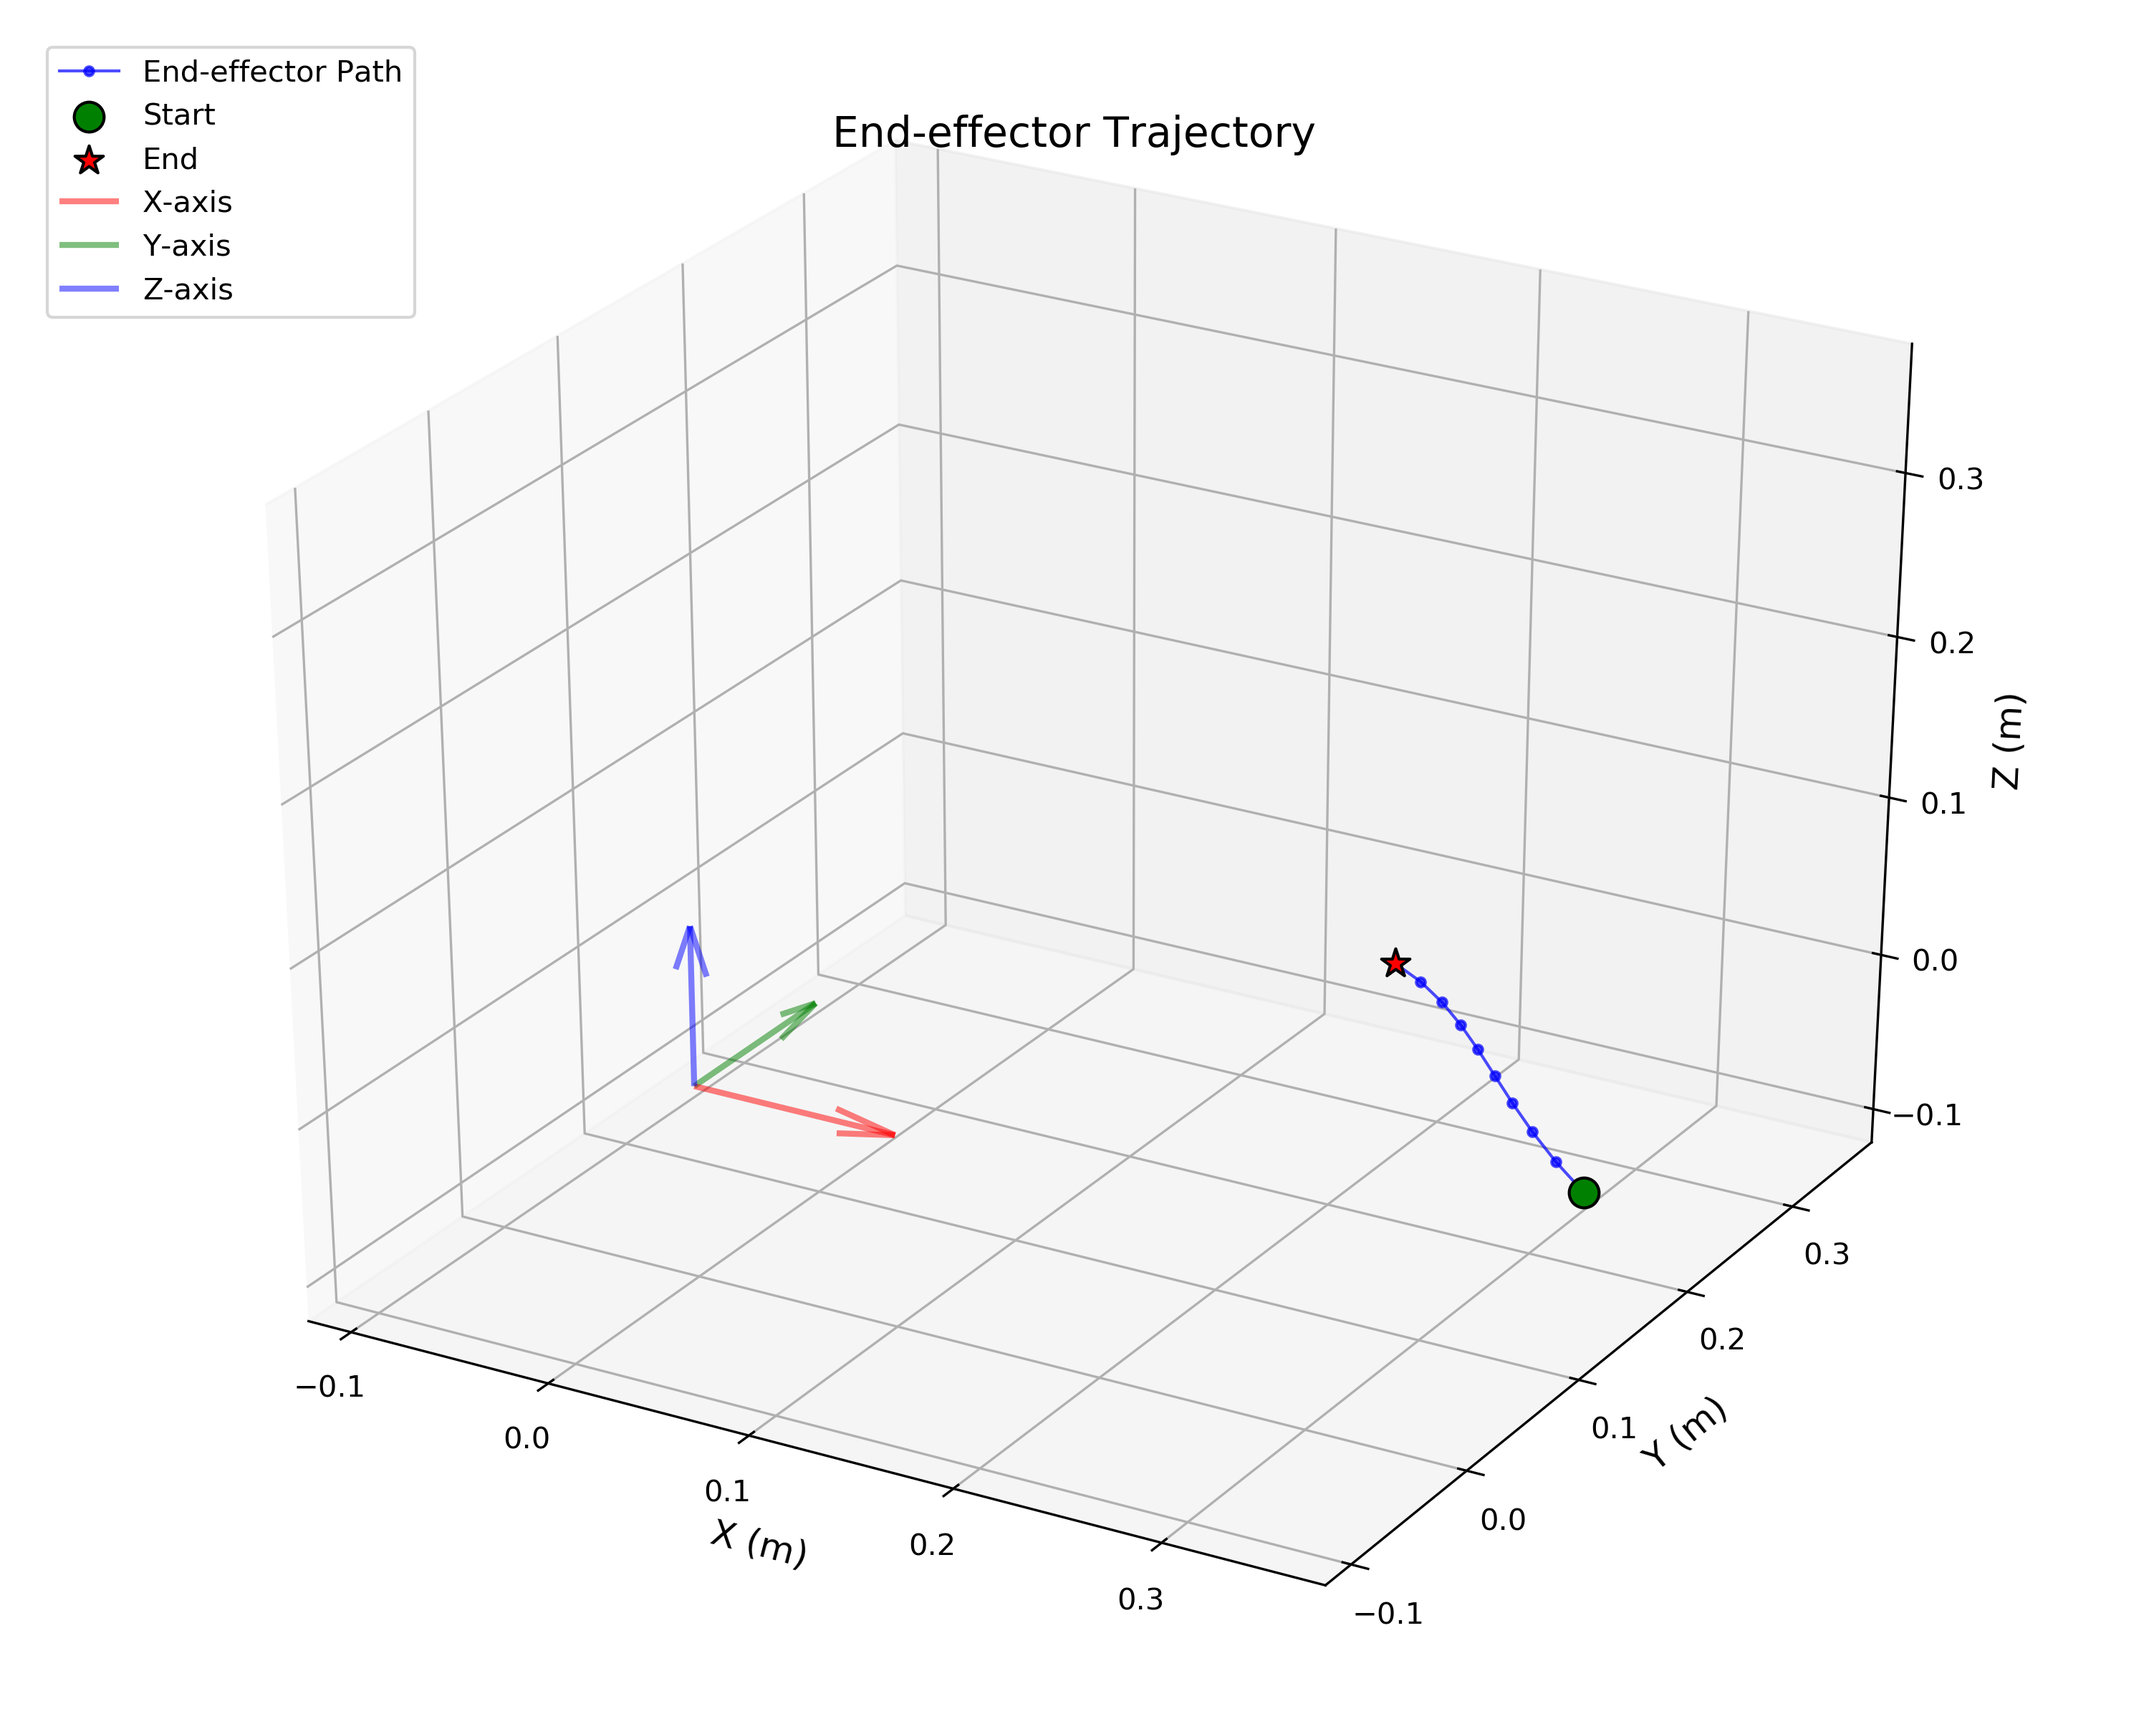
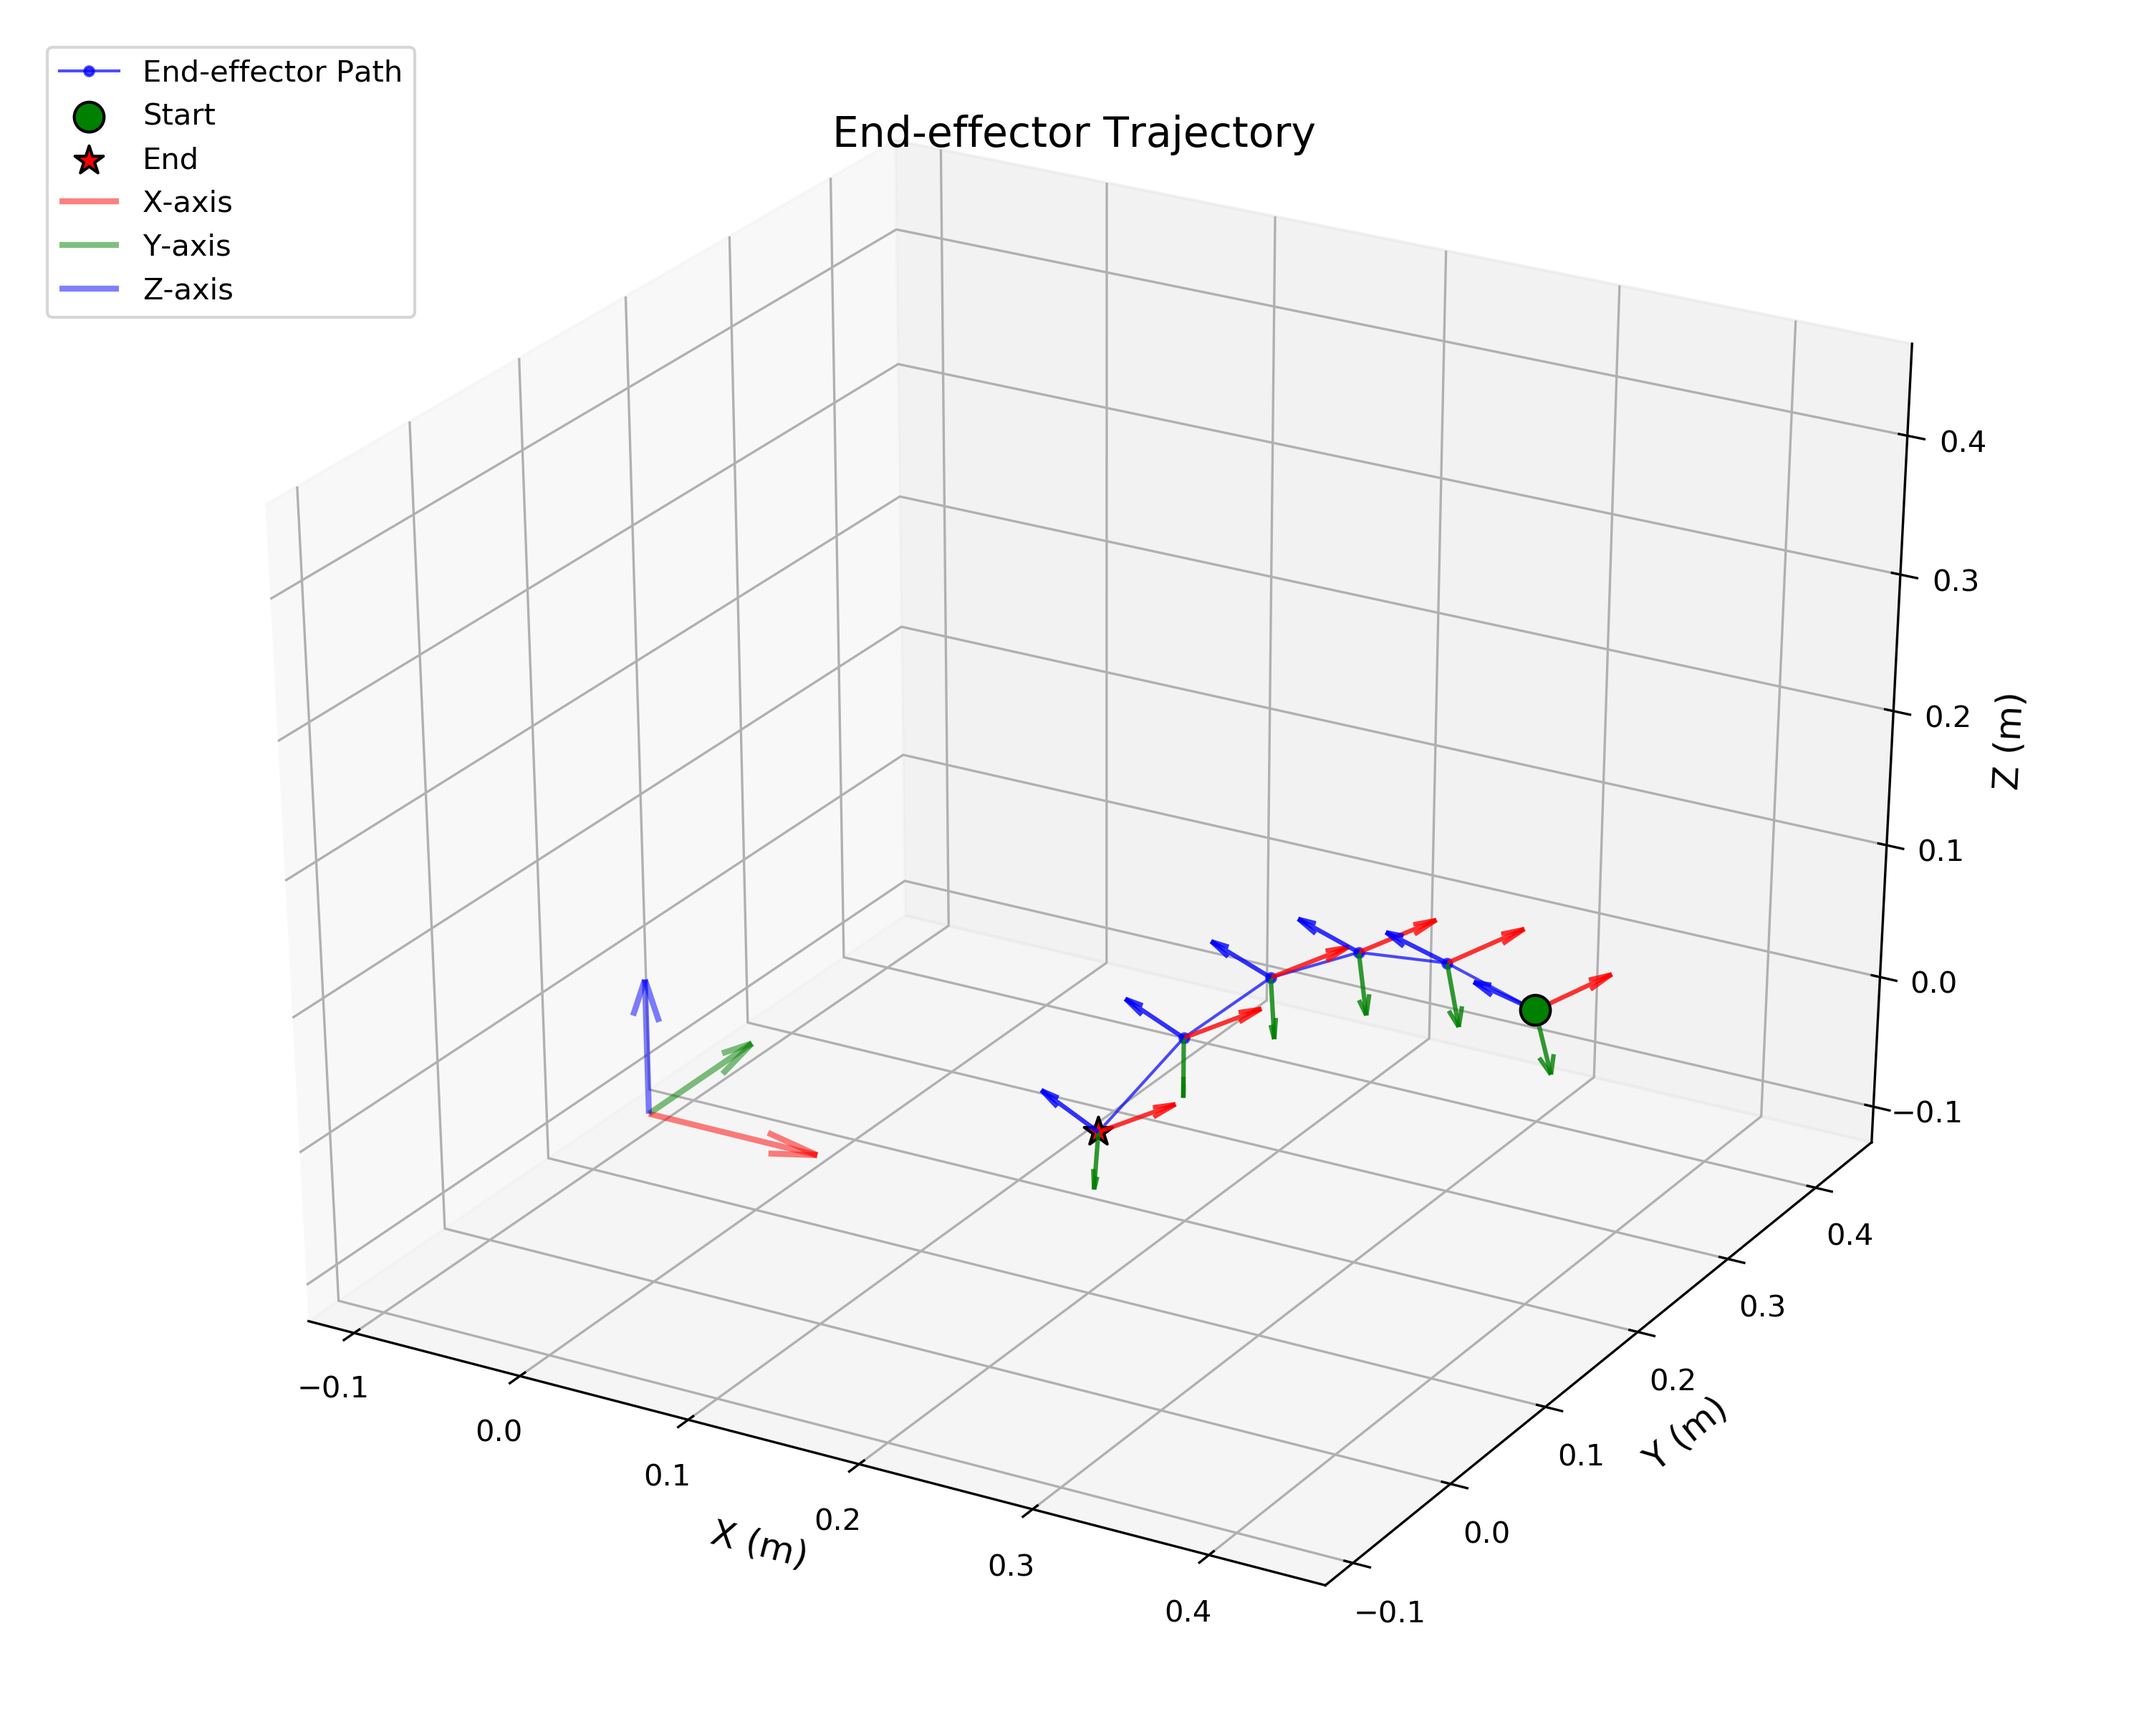
refactor(ur_record): 调整机器人控制参数和运动规划
- 修改了机器臂的速度和电流参数，降低至更安全的值
- 更新了机器臂的初始位置和目标位置
- 调整了运动规划的参数，提高了轨迹规划的准确度
- 优化了轨迹可视化的效果

diff --git a/ur_record/main.py b/ur_record/main.py
@@ -83,7 +83,15 @@ class RobotController:
         right_target_quat_ = [0.65497752, 0.53508699, -0.36644699, -0.38781821]
         # 发送消息
         move_wedge_success = self.arm_controller.move_dual_arm_by_xyz(left_target_pos_, left_target_quat_, right_target_pos_, right_target_quat_)
-        self.arm_controller.move_dual_up(0.1)
+        # self.arm_controller.move_dual_up(0.1)
+        # 左手移动到纸箱前
+        left_target_pos_ = [0.15371069, 0.19029899, -0.06846677]
+        left_target_quat_ = [0.65053061, -0.52448355, -0.37982903, 0.39680832]
+        # 右手移动到纸箱前
+        right_target_pos_ = [0.32400525, -0.19905013, 0.00859038]
+        right_target_quat_ = [0.64999305, 0.52478635, -0.37940189, -0.39769653]
+        # 发送消息
+        move_wedge_success = self.arm_controller.move_dual_arm_by_xyz(left_target_pos_, left_target_quat_, right_target_pos_, right_target_quat_)
         return move_wedge_success
 
     def insert_wedge(self):
@@ -106,7 +114,7 @@ class RobotController:
         right_target_pos_ = [0.15371069, -0.19029899, -0.06846677]
         right_target_quat_ = [0.645778878918554, 0.5312803574078042, -0.37486812155046495, -0.40023082442580193]
         # # 发送消息
-        insert_wedge_success = self.arm_controller.move_dual_arm_by_xyz_tr(left_target_pos_, left_target_quat_, right_target_pos_, right_target_quat_, steps=6, is_random=False, direction=[0.0, 0.0, 3.5])
+        insert_wedge_success = self.arm_controller.move_dual_arm_by_xyz_tr(left_target_pos_, left_target_quat_, right_target_pos_, right_target_quat_, steps=6, is_random=False, direction=[0.0, 0.0, 2.5])
         # rospy.sleep(1)
         # for i in range(5):
         #     robot_controller.arm_controller.move_dual_forward(0.05)
@@ -188,7 +196,7 @@ if __name__ == "__main__":
     robot_controller = RobotController()
     # robot_controller.get_arm_state()
     hand_init_success = robot_controller.hand_controller.init_hand_status()
-    move_left_status = robot_controller.arm_controller.rotate_joint([-0.0, 0.1, 0.0, 0.0, 0.0, 0.0, 0.0], [-0.0, -0.1, 0.0, 0.0, 0.0, 0.0, 0.0])
+    move_left_status = robot_controller.arm_controller.rotate_joint([-0.0, 0.2, 0.0, 0.0, 0.0, 0.0, 0.0], [-0.0, -0.2, 0.0, 0.0, 0.0, 0.0, 0.0])
     arm_init_success = robot_controller.arm_controller.init_arm_status()
-    robot_controller.grab_box()
+    # robot_controller.move_wedge()
     print("Service test end")

diff --git a/ur_record/solver/tracik/arm_solver_que_tr.py b/ur_record/solver/tracik/arm_solver_que_tr.py
@@ -5,24 +5,24 @@ from mpl_toolkits.mplot3d import Axes3D
 from tracikpy import TracIKSolver
 import matplotlib.pyplot as plt
 import numpy as np
-from arm_solver_que import ArmTracIKSolver
+from arm_solver_que_back import ArmTracIKSolver
 
 
 
 if __name__ == "__main__":
     arm_left_kinematics = ArmTracIKSolver("./ur_record/urdf/robot.urdf", "pelvis", "wrist_roll_l_link")
     # 设置目标位姿
-    start_pos = [0.32746261711182717, 0.19675063469266912, -0.07188115117764517]
-    start_quat = [0.6549774920361782, -0.5350870364142088, -0.36644692369681464, 0.3878182570490953]
+    start_pos = [0.40593656521727806, 0.19103989555676446, 0.09998230819120782]
+    start_quat = [0.6022336272331124, -0.5738677670383182, -0.45149258095975353, 0.3227148796110952]
     init_left_joints = None
     # 设置目标位姿
-    end_pos = [0.2546261711182717, 0.15675063469266912, 0.07188115117764517]
-    end_quat = [0.6549774920361782, -0.5350870364142088, -0.36644692369681464, 0.3878182570490953]
+    end_pos = [0.15371069, 0.19029899, -0.06846677]
+    end_quat = [0.6457788789185539, -0.5312803574078042, -0.37486812155046495, 0.40023082442580193]
     init_right_joints = None
     # 轨迹规划
     start_pose = arm_left_kinematics.create_pose(start_pos, start_quat)
     end_pose = arm_left_kinematics.create_pose(end_pos, end_quat)
-    points = arm_left_kinematics.plan(start_pose, end_pose, 10, True, [1.0, 1.0, 1.0])
+    points = arm_left_kinematics.plan(start_pose, end_pose, 10, False, [0.0, 0.0, 2.0])
 
     # 正向运动学验证
     for point in points:

diff --git a/ur_record/trajectory/trajectory.py b/ur_record/trajectory/trajectory.py
@@ -195,12 +195,12 @@ if __name__ == "__main__":
     # 示例用法
     planner = TrajectoryPlanner()
 
-    start_pose = planner.create_pose([0.40593656521727806, 0.1997382, 0.00859038], [0.65053061, -0.52448355, -0.37982903, 0.39680832])
-    end_pose = planner.create_pose([0.15371069, 0.19029899, -0.03846677], [0.6457788789185539, -0.5312803574078042, -0.37486812155046495, 0.40023082442580193])
+    start_pose = planner.create_pose([0.40593656521727806, 0.19103989555676446, 0.09998230819120782], [0.6022336272331124, -0.5738677670383182, -0.45149258095975353, 0.3227148796110952])
+    end_pose = planner.create_pose([0.15371069, 0.19029899, -0.06846677], [0.6457788789185539, -0.5312803574078042, -0.37486812155046495, 0.40023082442580193])
     
     positions, orientations = planner.plan(start_pose, end_pose, steps=6, is_random=False, direction=[0.0, 0.0, 3.5])
     
     # 可视化轨迹
     positions_array = np.array(positions)
     TrajectoryPlanner.visualize_trajectory(positions_array)
-    TrajectoryPlanner.visualize_trajectory(positions_array, orientations, step=3, scale=0.05)
+    TrajectoryPlanner.visualize_trajectory(positions_array, orientations, step=1, scale=0.05)

diff --git a/ur_record/solver/tracik/arm_solver_que.py b/ur_record/solver/tracik/arm_solver_que.py
@@ -454,9 +454,11 @@ class ArmTracIKSolver(TracIKSolver):
             ee_pose[:3, :3] = self.quat_to_rot_matrix(target_quaternion)
         else:
             ee_pose[:3, :3] = self.quat_to_rot_matrix(target_quaternion)
-        if initial_angles is not None:
-            self.current_joints = np.concatenate(([0], initial_angles))
-        solution = self.move_to_pose(ee_pose, 20, 0.01)
+        if initial_angles is not None and len(initial_angles) == 7:
+            initial_angles = np.concatenate(([0], initial_angles))
+        # if initial_angles is not None:
+        #     self.current_joints = np.concatenate(([0], initial_angles))
+        solution = self.move_to_pose(ee_pose, 20, 0.005)
         return solution[1:] if solution is not None else initial_angles
 
     def move_to_pose(self, target_pose, max_attempts=10, singularity_threshold=0.001):

diff --git a/ur_record/controllers/arm_controller.py b/ur_record/controllers/arm_controller.py
@@ -41,8 +41,8 @@ class ArmController:
         self.arm_kinematics = [self.arm_right_kinematics, self.arm_left_kinematics]
         self.mirror_ls = [1, -1, -1, 1, -1, 1, -1]
         # 控制器参数
-        self.joint_speed = rospy.get_param("~joint_speed", 150)  # rpm
-        self.joint_current = rospy.get_param("~joint_current", 80.0)  # A
+        self.joint_speed = rospy.get_param("~joint_speed", 10)  # rpm
+        self.joint_current = rospy.get_param("~joint_current", 5.0)  # A
         self.joint_tolerance = rospy.get_param("~joint_tolerance", 0.01)  # rad
         self.tr_distance = rospy.get_param("~tr_distance", 0.05)  # m
         self.tr_point_time = rospy.get_param("~tr_point_time", min(0.2, 2 * math.pi / self.joint_speed))  # s

diff --git a/ur_record/solver/tracik/arm_solver_que_back.py b/ur_record/solver/tracik/arm_solver_que_back.py
@@ -452,8 +452,8 @@ class ArmTracIKSolver(TracIKSolver):
             ee_pose[:3, :3] = self.quat_to_rot_matrix(target_quaternion)
         else:
             ee_pose[:3, :3] = self.quat_to_rot_matrix(target_quaternion)
-        if initial_angles is not None:
-            self.current_joints = np.concatenate(([0], initial_angles))
+        if initial_angles is not None and len(initial_angles) == 7:
+            initial_angles = np.concatenate(([0], initial_angles))
         solution = self.move_to_pose(ee_pose, 20, 0.01)
         return solution[1:] if solution is not None else initial_angles
 
